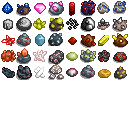
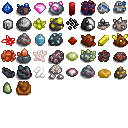
Started Adding Dundasite

Changed region(s): [[0.125, 0.625, 0.25, 0.75], [0.0, 0.625, 0.0938, 0.75]]

diff --git a/README.md b/README.md
@@ -4,7 +4,6 @@ Info
 Gems to Add
 -----------
 
-> - Dundasite
 > - Dzhalindite
 > - Liddicoatite
 > - Phosphophyllite
@@ -19,7 +18,6 @@ Locations to Add
 > - 61-70
 > - 101-110
 > - 111-120
-> - 60+
 > - 70+
 > - 90+
 
@@ -45,3 +43,4 @@ Locations to Add
 | Borax | 41-50 | 275 |
 | Alexandrite | 100+ | 850 |
 | Tourmaline | 50+ | 400 |
+| Dundasite | 60+ | 525 |
